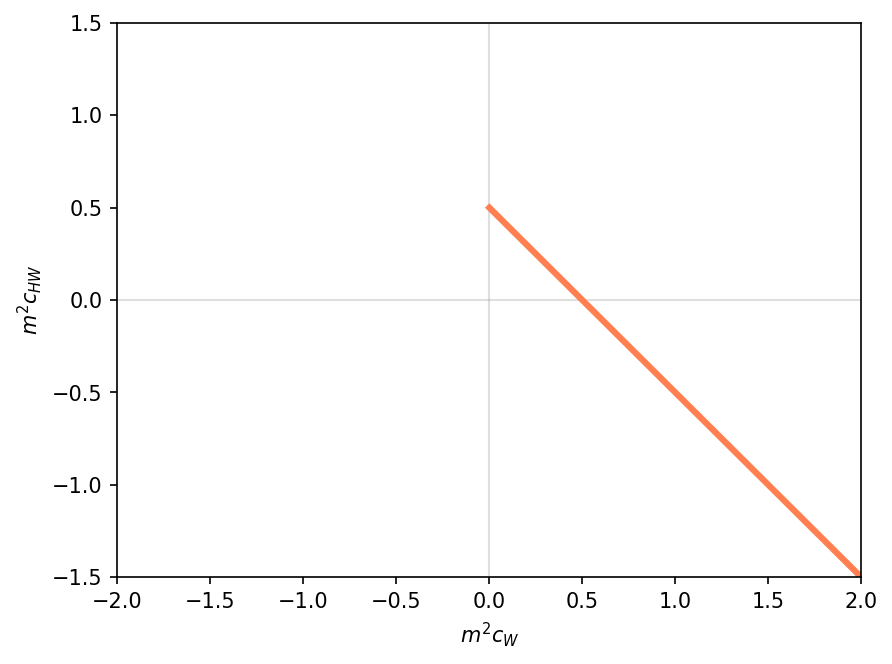
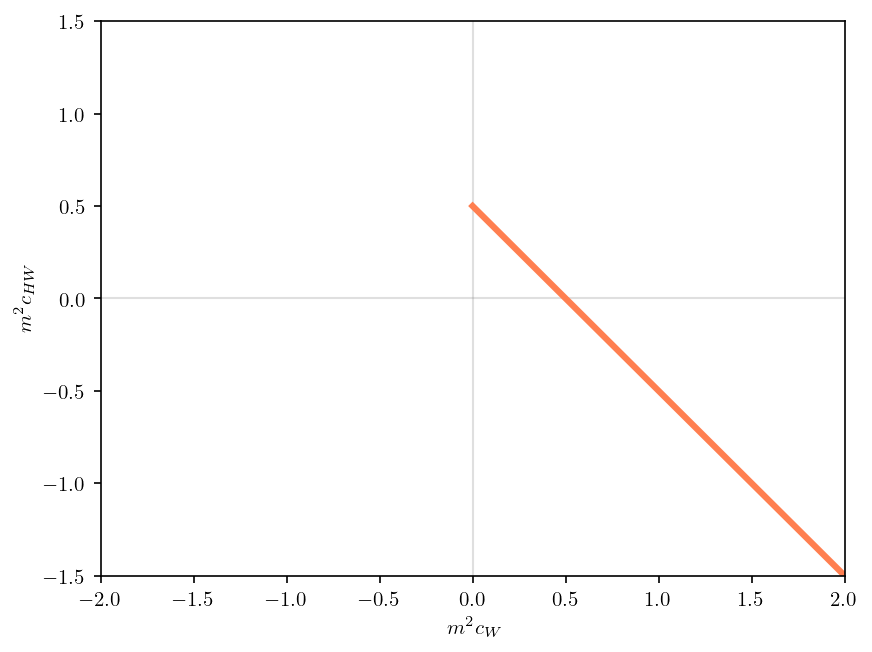
Wrote last section, added some plots

Changed region(s): [[0.0, 0.0307, 0.9908, 0.9816]]

diff --git a/chapters/ww_scattering.tex b/chapters/ww_scattering.tex
@@ -56,26 +56,31 @@ To complete the analysis, we use the relation between once- and 0-th substracted
 \left| a_1^{(++)} \right| (\Lambda^2 - 2m^2) \leq a_0^{(++)}.
 \]
 This inequality leads to two distinct regimes:
-\[
-\begin{cases}
-    \dfrac{g_Z^2}{g_W^2} \leq 2 
-    \;\Rightarrow\;
-    \dfrac{m_Z^2}{\Lambda^2} \geq \dfrac{ \frac{g_Z^2}{g_W^2} }{2 - \frac{g_Z^2}{g_W^2}}, \\[1em]
-    \dfrac{g_Z^2}{g_W^2} \geq 2 
-    \;\Rightarrow\;
-    \dfrac{m_Z^2}{\Lambda^2} \leq \dfrac{ \frac{g_Z^2}{g_W^2} }{2 - \frac{g_Z^2}{g_W^2}} < 0
-\end{cases}
-\]
+\begin{equation}
+    \begin{cases}
+        \dfrac{g_Z^2}{g_W^2} \leq 2 
+        \;\Rightarrow\;
+        \dfrac{m_Z^2}{\Lambda^2} \geq \dfrac{ \frac{g_Z^2}{g_W^2} }{2 - \frac{g_Z^2}{g_W^2}}, \\[1em]
+        \dfrac{g_Z^2}{g_W^2} \geq 2 
+        \;\Rightarrow\;
+        \dfrac{m_Z^2}{\Lambda^2} \leq \dfrac{ \frac{g_Z^2}{g_W^2} }{2 - \frac{g_Z^2}{g_W^2}} < 0
+    \end{cases}
+    \label{eq:casesint}
+\end{equation}
 The second regime, \( g_Z^2 \geq 2 g_W^2 \), is clearly inconsistent. In the first regime, \( g_Z^2 \leq 2 g_W^2 \), there appears to be a viable window. However, combining this with the bound \( g_Z^2 \geq g_W^2 \) implies
 \[
 m_Z^2 \geq \Lambda^2,
 \]
-this is the \( Z \)-boson resonance would lie above the cutoff. This is problematic, as the effective theory cannot reliably describe physics above \( \Lambda \). This is summarized in figure 
-\begin{Todo}
-    Añadir figura
-\end{Todo}
-Therefore, the process under consideration is not consistent with unsubtracted dispersion relations. However, it remains compatible with twice-subtracted dispersion relations, provided that \( g_Z^2 \geq g_W^2 \).
+this is the \( Z \)-boson resonance would lie above the cutoff. This is problematic, as the effective theory cannot reliably describe physics above \( \Lambda \). This is summarized in \Cref*{fig:boundsintersction}.
+\begin{figure}[hbtp]
+    \begin{center}
+        \includegraphics[width= 0.85 \textwidth]{../figures/bounds_intersection.png}
+    \end{center}
+    \label{fig:boundsintersction}
+    \caption{Intersection of the different bounds that appear when assuming the $WW$ scattering fulfils 0-th substracted dispersion relations. The regions highlighted in red correspond to the bounds arising from \Cref*{eq:casesint}, while the region highlighted in blue corresponds to $g_Z^2 \geq 1$.}
+\end{figure}
 
+Therefore, the process under consideration is not consistent with unsubtracted dispersion relations. However, it remains compatible with twice-subtracted dispersion relations, provided that \( g_Z^2 \geq g_W^2 \).
 This condition is reminiscent of the role of the three-point coupling in ensuring the cancellation of the \( s^2 \) growth in the scattering amplitude for \( W^+_L W^-_L \rightarrow W^+_L W^-_L \). Such a cancellation is required by gauge invariance and follows from Ward identities \autocite{Lee:1977eg}.
 
 \section{Higher-Order Operators}
@@ -146,10 +151,6 @@ m_0^{(00)} =
 \end{equation}
 Note that there are no contributions of $m_Z$. This is a consequence of the condition in \Cref*{eq:dim6cond}, which cancels those terms.
 
-\begin{Todo}
-    Add trumpet plots.
-\end{Todo}
-
 As discussed in \Cref{sec:finitet}, positivity requires this quantity to satisfy
 \begin{equation}
     -\frac{1}{2(1-2m^2)}
@@ -167,7 +168,7 @@ We determine numerically the regions of parameter space compatible with these bo
 \begin{figure}[hbtp]
     \centering
     \includegraphics[width=\textwidth]{../figures/dim6_finitet.pdf}
-    \caption{Regions of parameter space compatible with the positivity bounds for $t = 0.1\,\Lambda^2$.}
+    \caption{Regions of parameter space compatible with the positivity bounds for $t = 0.1\,\Lambda^2$, including dimension 4 and dimension 6 operators and assuming that $c_{HW} + c_{W} = 1/(2m^2)$ and $c_W \geq 0$.}
     \label{fig:many6dim}
 \end{figure}
 
@@ -191,12 +192,15 @@ Keeping only the Standard Model operators, the relevant arcs in the $u \to 0$ li
     a_1^{(00)} &= g_Z\frac{4 g_W^2}{m_Z^2}, \\
     a_2^{(00)} &= (g_Z - 1) \frac{g_W^2}{2m^4}.
 \end{align}
+\begin{Question}
+    Estos arcos están bien???
+\end{Question}
 From $a_2^{(00)} \geq 0$, we recover the condition that $g_Z \geq 1$. Using the relation $a_2 (\Lambda^2 - 2m^2) \leq a_1$, we find the upper bounds for $g_Z$ shown in figure \Cref*{fig:nomz}.
 \begin{figure}[hbtp]
     \begin{center}
         \includegraphics[width = 0.85 \textwidth]{../figures/1sub_nomZ.png}
     \end{center}
-    \caption{Upper bound in $g_Z$ for different values of $m^2$ and $m_Z^2$. The dashed lines represent the value of $m^2$ starting from which the theory is not consistent, as it gives $g_Z < 0$.}
+    \caption{Upper bound in $g_Z$ for different values of $m^2$ and $m_Z^2$, only including dimension 4 operators and assuming the isospin-2 amplitude is analytical. The dashed lines represent the value of $m^2$ starting from which the theory is not consistent, as it gives $g_Z < 0$.}
     \label{fig:nomz}
 \end{figure}
 As we can see, taking the cutoff to the infinity implies that $g_Z = 1$, which brings us back to the Standard Model.
@@ -206,8 +210,22 @@ It is also interesting to study the $m_Z^2 = m^2$ case. For this, the allowed re
     \begin{center}
         \includegraphics[width = 0.85 \textwidth]{../figures/image.png}
     \end{center}
-    \caption{Allowed region for $m^2$ for differentes values in $g_Z$.}
+    \caption{Allowed region for $m^2$ for differentes values in $g_Z$, only including dimension 4 operators and assuming the isospin-2 amplitude is analytical.}
     \label{fig:withmz}
 \end{figure} 
 \subsection{Higher-Order Operators}
-Lastly, we study how these bounds are modified when including 6 dimensional operators. The relevant arcs are 
+Lastly, we study how these bounds are modified when including 6 dimensional operators. Still in the $m^2 = m_Z^2$ regime, the relevant arcs are 
+\begin{Todo}
+    Escribir arcos.
+\end{Todo}
+Using that the arcs are positive, that they verify that $a_2^{(00)} (\Lambda^2 - 2m^2) \leq a_1^{(00)}$ and boundness of the contribution of the first order in $u$, we can numerically solve the system of inequations to find bounds on $m^2$ and $m_h^2$. The allowed region is shown in \Cref*{fig:dim6withu}.
+\begin{Todo}
+    Comprobar que no me falta ninguna relación
+\end{Todo}
+\begin{figure}[hbtp]
+    \begin{center}
+        \includegraphics[width=0.75\textwidth]{../figures/dim6withu.pdf}
+    \end{center}
+    \caption{Allowed region for $m$ and $m_H$ independently of the value of the 6 dimensional coefficients, assuming the isospin-2 amplitude is analytical.}
+    \label{fig:dim6withu}
+\end{figure}

diff --git a/chapters/nonab.tex b/chapters/nonab.tex
@@ -1,11 +1,7 @@
 \chapter{Positivity Bounds for Non Abelian Massive Vectors}
 \label{chap:nonab}
 Now, we move on to study bounds on the spectrum of theories with non abelian massive vectors. First, we will parametrize the most general form of the scattering amplitude for non abelian massive scalars, and study how to define positive arcs for even and odd substractions.
-Then, we will see how to extend it to the scattering of non abelian massive vectors.
-\begin{Todo}
-    Seguir
-\end{Todo}
-    
+Then, we will see how to extend it to the scattering of non abelian massive vectors. Lastly, we will see how the problem of finding bounds can be greatly simplified in the regime in which $t$ is small. 
 
 \subsection{Crossing Symmetry for Massive Vectors}
 One of the main challenges in dealing with massive particles carrying nonvanishing spin is understanding how crossing symmetry is realized, as this plays a crucial role in setting up our framework. To illustrate the issue, consider the scattering of massive vector bosons with definite helicities, for instance \( + - + - \), in the center of mass frame. Crossing symmetry formally corresponds to exchanging two external legs of the amplitude. 
@@ -204,10 +200,7 @@ It is straightforward to verify that no choice of $a$, $b$, and $c$ yields a non
 
 If one nevertheless wishes to study the case of an odd number of subtractions, some positivity statements may still be recovered under stronger assumptions. Consider an amplitude $\mathcal{M}$ that, under crossing, is related to $\hat{\mathcal{M}}$. If the crossed amplitude is analytical at high energies, this is, there are no resonances, then only the $s$-channel cut contributes to the dispersion relation. In that case, if $\mathcal{M}$ can be written as a linear combination of isospin amplitudes with positive coefficients, the corresponding arc integrals with an odd number of subtractions are also positive.
 
-This situation is realised, for instance, in the $+ - \to - +$ channel for fixed-$u$ dispersion relations, this is, after implementing the $s \leftrightarrow t$ crossing transformation. In this case, if the crossed process $++ \to ++$ is analytic at high energies, only the $s$-channel branch cut contributes, allowing positivity bounds to be established even for an odd number of subtractions. 
-\begin{Todo}
-    Explicar N infinity
-\end{Todo}
+This situation is realised, for instance, in the $+ - \to + -$ channel for fixed-$u$ dispersion relations, this is, after implementing the $s \leftrightarrow t$ crossing transformation. In this case, if the crossed process $++ \to ++$ is analytic at high energies, only the $s$-channel branch cut contributes, allowing positivity bounds to be established even for an odd number of subtractions. 
 
 \section{Parametrization of the Scattering Amplitude}
 

diff --git a/todolist.tex b/todolist.tex
@@ -8,15 +8,15 @@
     \end{itemize}
     \item \sout{Write Different Number of Substractions}
     \item \sout{Explain Analytical Bounds on the Spectrum }
-    \item Finish introduction non abelian 
-    \item Explain n infinity 
+    \item \sout{Finish introduction non abelian }
+    \item \sout{Explain n infinity }
     \item \sout{Write positivity bounds in the forward limit}
-    \item Write ww bounds 
+    \item \sout{Write ww bounds }
     \begin{itemize}
         \item \sout{intro} 
         \item \sout{Standard Model}
         \item \sout{Beyond the Standard Model}
-        \item Odd Substractions
+        \item \sout{Odd Substractions}
     \end{itemize}
     \item Write discussion
     \item Write Conventions 